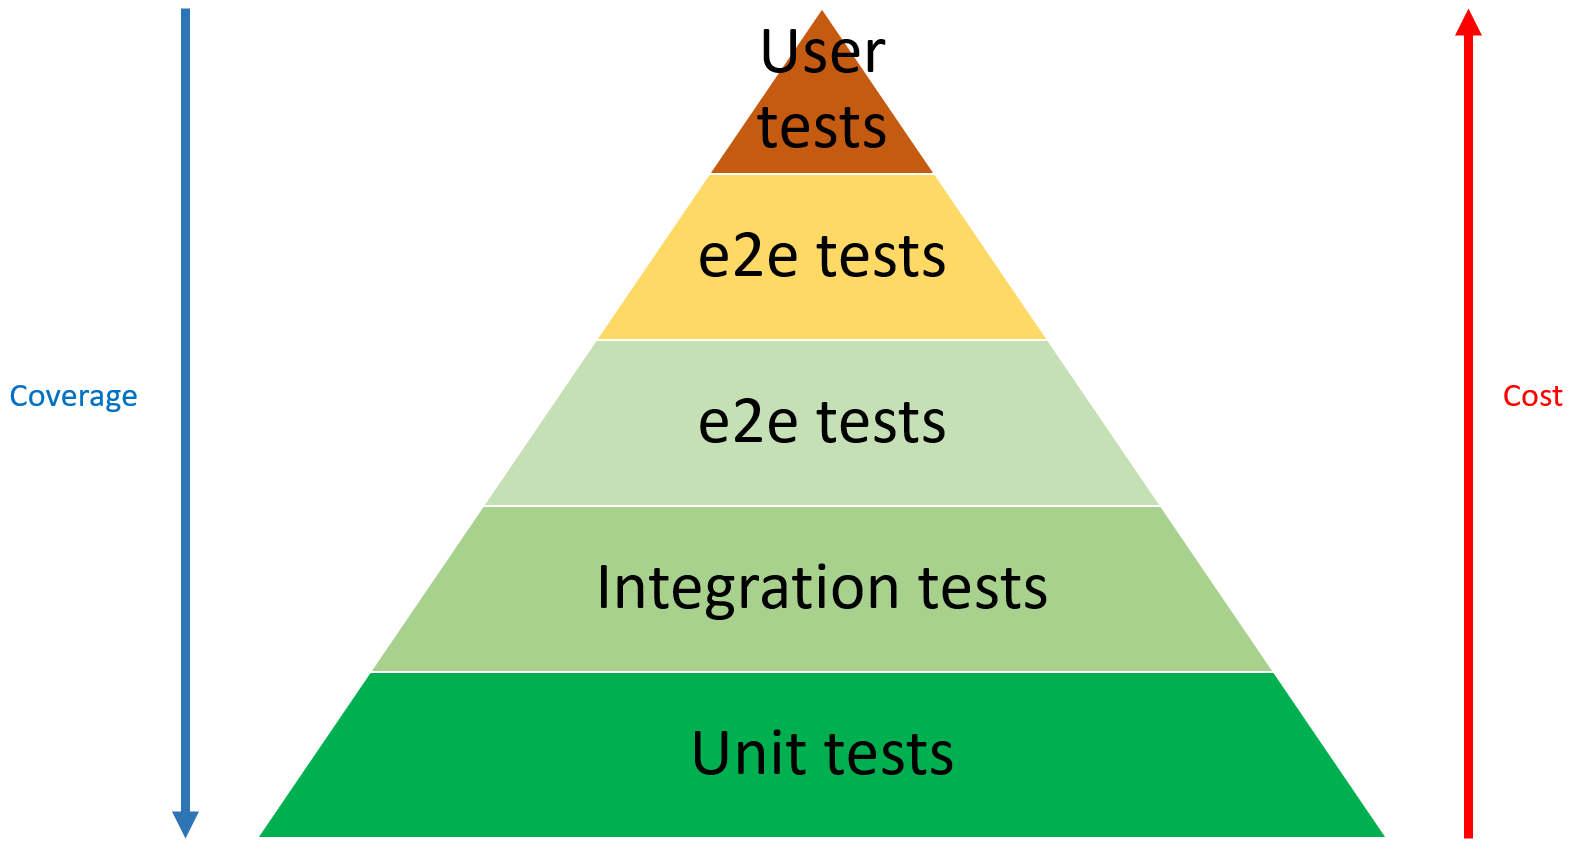
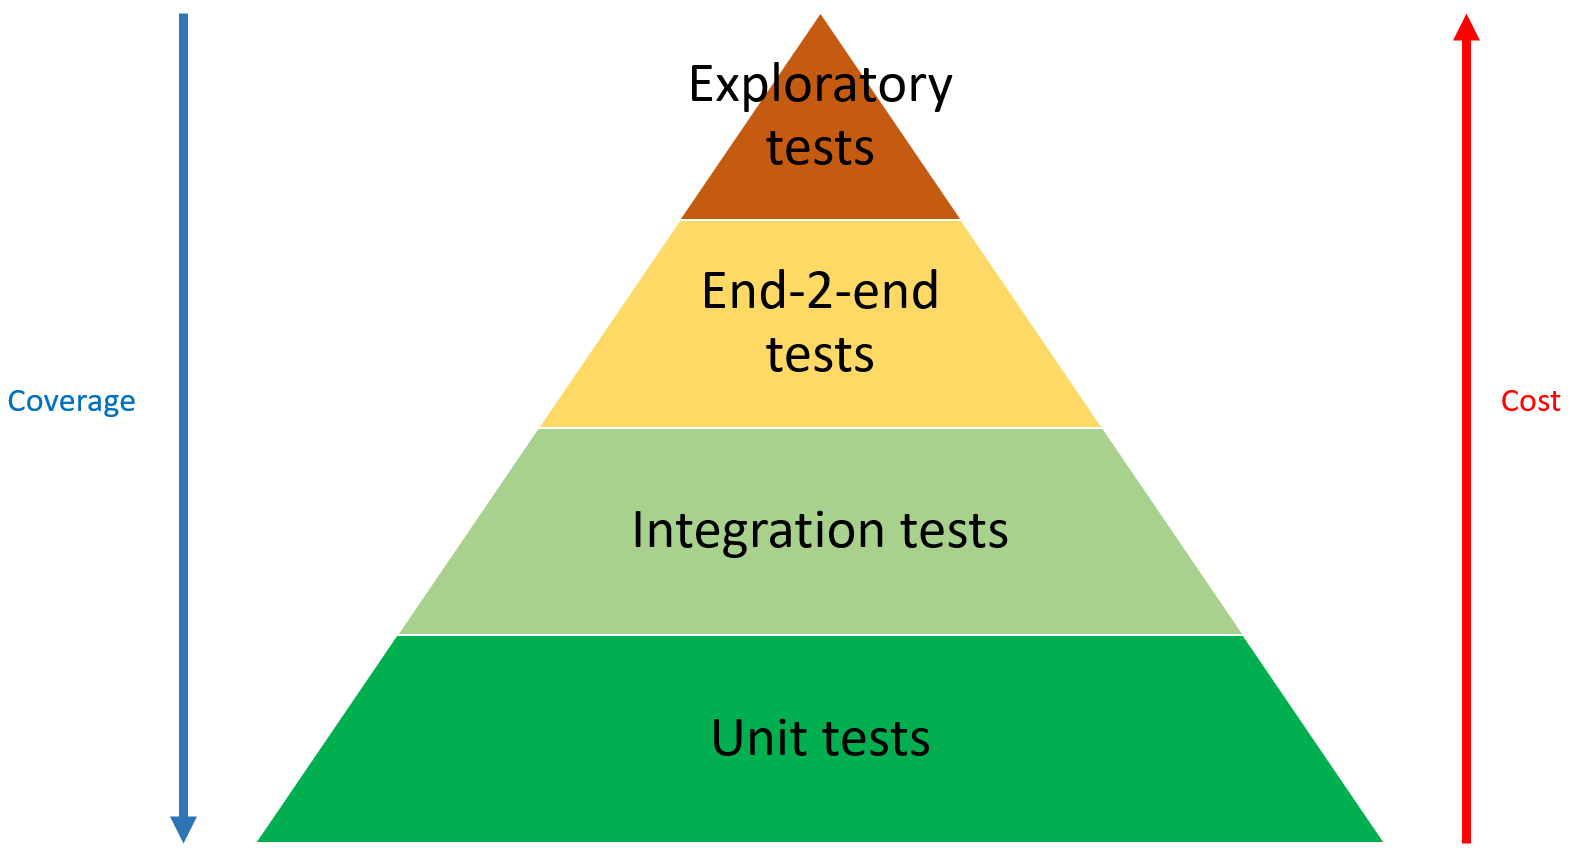
Feature/Fix pyramid of test image and add presentation-as-code presentation (#3)
* Minor update on README and fix pyramid test image

* Add presentation-as-code slides

* Update image on presentation-as-code

diff --git a/slides/presentation-as-code.md b/slides/presentation-as-code.md
@@ -1,0 +1,48 @@
+---
+theme: seriph
+highlighter: shiki
+lineNumbers: false
+css: unocss
+transition: slide-left
+title: Presentation-as-code
+background: /images/presentation-as-code-ai-20230306.jpg
+---
+
+# Presentation-as-code
+
+Yes, we can create and manage slides from a source code!
+
+---
+
+# Markdown
+
+```md
+# My nice title
+
+## My first subtitle
+
+**Here** I am going to write _very good_ documentation about some stuff.
+```
+
+---
+
+# Free web hosting
+
+- 🐙 **GitHub** Pages
+- 🦊 **GitLab** Pages
+
+---
+
+# Open-source tooling
+
+Interesting projects
+
+- [**Marp**](https://marp.app/) ([code](https://github.com/marp-team/marp) _★ 5.7k_)
+- [**Slidev**](https://sli.dev/) ([code](https://github.com/slidevjs/slidev) _★ 25.6k_)
+
+---
+
+# Examples
+
+- [5 minute talks](https://github.com/devpro/five-min-talks)
+- [Fun with containers](https://github.com/devpro/fun-with-containers)

diff --git a/README.md b/README.md
@@ -6,9 +6,11 @@ Presentation materials of "5 minute talks" series. Check-out [devpro.github.io/f
 
 ## How to contribute
 
-This content is using [Slidev](https://sli.dev/) ([code](https://github.com/slidevjs/slidev), [docs](https://sli.dev/guide/why.html))
+This content is using [Slidev](https://sli.dev/) to generate presentation from Markdown files. To go further, you can look at the [GitHub project](https://github.com/slidevjs/slidev) and the [documentation](https://sli.dev/guide/why.html).
 
-From the source code:
+Additional content can be added to the Markdown pages with [Mermaid Diagramming and charting tool](https://mermaid.js.org/) and the design can be updated with [UnoCSS](https://uno.antfu.me/).
+
+To run the project locally:
 
 - Run `npm install` from a terminal
 - Run `npm run dev` (or `npx slidev --open`) from a terminal

diff --git a/slides/automated-testing-101.md b/slides/automated-testing-101.md
@@ -83,7 +83,7 @@ Business, Testing, Development
 
 ---
 
-## Gherkin language
+# Gherkin language
 
 Describe any process in simple words
 
@@ -104,7 +104,7 @@ Feature: Guess the word
 
 ---
 
-## Open-source tooling
+# Open-source tooling
 
 Most used projects
 

diff --git a/slides/index.md b/slides/index.md
@@ -9,3 +9,4 @@ transition: slide-left
 ## Content
 
 * [Automated Testing 101](/five-min-talks/automated-testing-101)
+* [Presentation-as-code](/five-min-talks/presentation-as-code)
